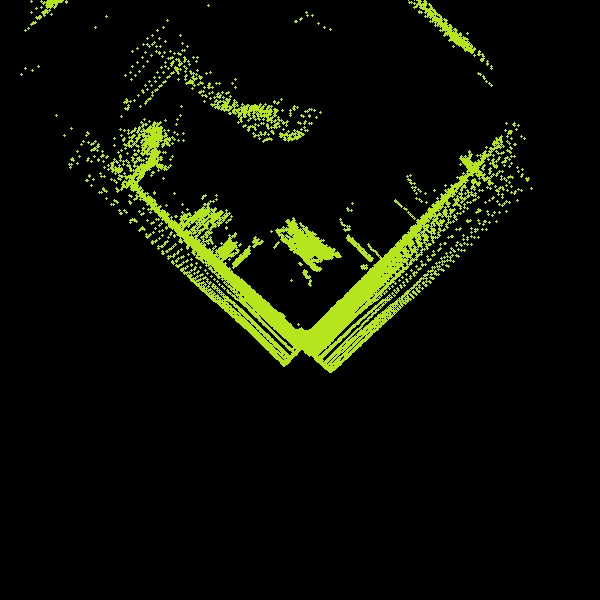
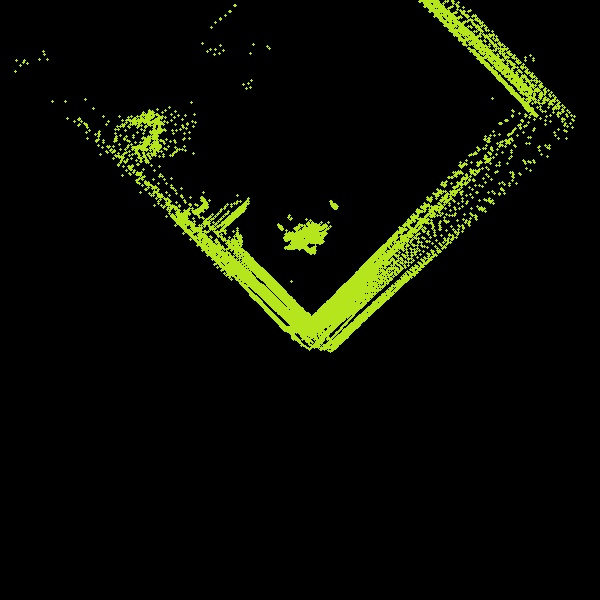
got rotation problems

diff --git a/src/modules/rplidar/slam.cpp b/src/modules/rplidar/slam.cpp
@@ -10,7 +10,7 @@ __slam::__slam(double yaw_initial)
 	x = y = 0;
 	yaw = yaw_initial;
 
-	x_pixel = y_pixel = 200;
+	x_pixel = y_pixel = 0;
 
 	Mat zero(Map_ImgHeight, Map_ImgWidth, CV_8UC3, Scalar(0, 0, 0));		// 图片格式： BGR
 	Map = zero.clone();
@@ -66,7 +66,7 @@ int __slam::run()
 
 	///
 	/// 调用卡尔曼滤波器
-	//kalman_filter();
+	kalman_filter();
 
 	///
 	/// 积分得到位置
@@ -117,7 +117,7 @@ int __slam::run()
 
 	draw_Map(true);
 
-	PX4_INFO("x: %6.3f, y: %6.3f", dx, dy);
+	PX4_INFO("x: %d, y: %d", x, y);
 	//PX4_INFO("X: %6.3f, Y: %6.3f", x, y);
 	return SUCCESS;
 
@@ -127,7 +127,7 @@ void __slam::kalman_filter()
 {
 	// 核心代码
 	// 输入单位:	速度v:		mm/s
-	//			加速度a:	mm/s^2
+	//			加速度a:		mm/s^2
 	//			角度:		deg
 	//			时间:		ms
 
@@ -158,21 +158,21 @@ void __slam::kalman_filter()
 	double z_out_temp = 0;
 	rotation_mat(vx_in, vy_in, 0, ahrs.Roll, ahrs.Pitch, ahrs.Yaw, &vx_in, &vy_in, &z_out_temp);
 
-	Xx = F * Xx + acc_x * 1000 * dt;
+	Xx = F * Xx + acc_x * dt;
 	Px = F * Px + Q;
 	Kx = H * Px / (H * Px + R);
 	Xx = Xx + Kx * (vx_in - Xx * H);
 	Px = (I - Kx) * Px;
 
-	Xy = F * Xy + acc_y * 1000 * dt;
+	Xy = F * Xy + acc_y * dt;
 	Py = F * Py + Q;
 	Ky = H * Py / (H * Py + R);
 	Xy = Xy + Ky * (vy_in - Xy * H);
 	Py = (I - Ky) * Py;
 
-	// 取出值，因为相对运动，所以这边要取负号
-	vx = -Xx;
-	vy = -Xy;
+	// 取出值
+	vx = Xx;
+	vy = Xy;
 
 	// 测试代码，输出卡尔曼增益
 	//PX4_INFO("Kalman Gain: Kx: %f, Ky: %f", Kx, Ky);
@@ -216,7 +216,7 @@ int __slam::update_QuadData(double acc_x_in, double acc_y_in,
 	// 输入:
 	// acc_x_in, acc_y_in:	m/s^2
 	// ahrs_in:				deg
-	acc_x = acc_x_in;
+	acc_x = -acc_x_in;
 	acc_y = acc_y_in;
 	ahrs  = ahrs_in;
 

diff --git a/src/modules/rplidar/include/slam.h b/src/modules/rplidar/include/slam.h
@@ -29,6 +29,18 @@ using namespace cv;
 		加速度:	mm/s^2
 		角度:	deg
 
+	2 极性参考
+
+		3   1
+		 \ /
+		  X    ↑
+		 / \
+		2   4
+
+		x
+		↑
+		X→y
+	   z
 */
 
 class __slam
